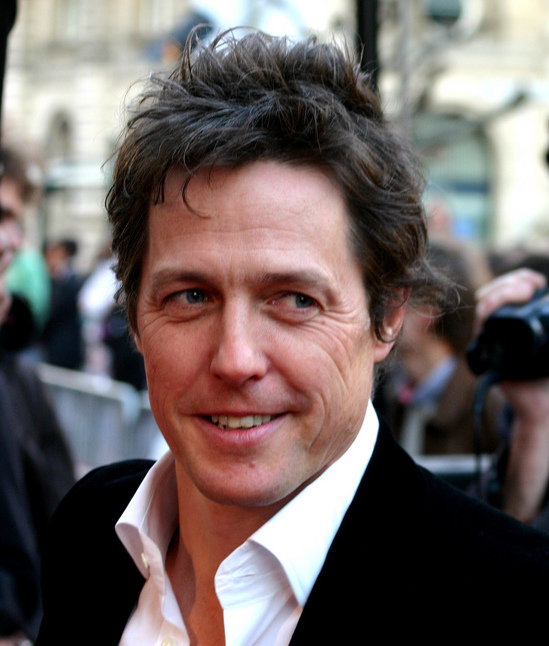
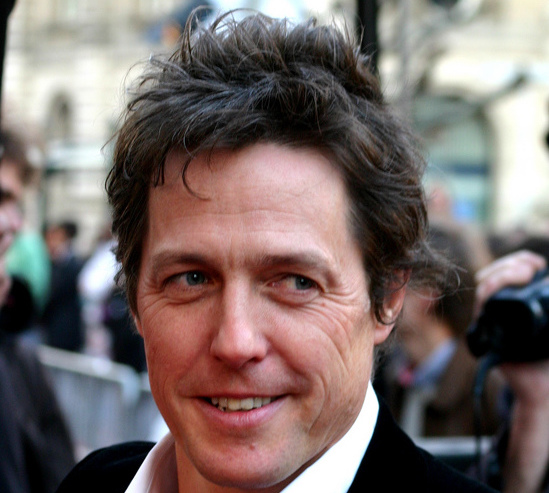
swap out enterprise response image, crop hugh, add max height to images in grid

diff --git a/index.html b/index.html
@@ -57,7 +57,7 @@
                   <i class="fa fa-search-plus fa-3x"></i>
                 </div>
               </div>
-              <img class="img-fluid" src="img/portfolio/enterprise-response.jpg" alt="">
+              <img class="img-fluid img-max-height" src="img/portfolio/enterprise-response.jpg" alt="">
               <p class="text-center">Enterprise Response/Help</p>
             </a>
           </div>
@@ -68,7 +68,7 @@
                   <i class="fa fa-search-plus fa-3x"></i>
                 </div>
               </div>
-              <img class="img-fluid" src="img/portfolio/software-user-guide.jpg" alt="">
+              <img class="img-fluid img-max-height" src="img/portfolio/software-user-guide.jpg" alt="">
               <p class="text-center">Software User Guide</p>
             </a>
           </div>
@@ -79,7 +79,7 @@
                   <i class="fa fa-search-plus fa-3x"></i>
                 </div>
               </div>
-              <img class="img-fluid" src="img/portfolio/grant-writing.jpg" alt="">
+              <img class="img-fluid img-max-height" src="img/portfolio/grant-writing.jpg" alt="">
               <p class="text-center">Grant Writing</p>
             </a>
           </div>
@@ -90,7 +90,7 @@
                   <i class="fa fa-search-plus fa-3x"></i>
                 </div>
               </div>
-              <img class="img-fluid" src="img/portfolio/enterprise-email.png" alt="">
+              <img class="img-fluid img-max-height" src="img/portfolio/enterprise-email.png" alt="">
               <p class="text-center">Enterprise Email & Web Production</p>
             </a>
           </div>
@@ -101,7 +101,7 @@
                   <i class="fa fa-search-plus fa-3x"></i>
                 </div>
               </div>
-              <img class="img-fluid" src="img/portfolio/technical-editing.jpg" alt="">
+              <img class="img-fluid img-max-height" src="img/portfolio/technical-editing.jpg" alt="">
               <p class="text-center">Technical Editing</p>
             </a>
           </div>
@@ -112,7 +112,7 @@
                   <i class="fa fa-search-plus fa-3x"></i>
                 </div>
               </div>
-              <img class="img-fluid" src="img/portfolio/press-release.jpg" alt="">
+              <img class="img-fluid img-max-height" src="img/portfolio/press-release.jpg" alt="">
               <p class="text-center">Press Release</p>
             </a>
           </div>
@@ -123,7 +123,7 @@
                   <i class="fa fa-search-plus fa-3x"></i>
                 </div>
               </div>
-              <img class="img-fluid" src="img/portfolio/product-review.jpg" alt="">
+              <img class="img-fluid img-max-height" src="img/portfolio/product-review.jpg" alt="">
               <p class="text-center">Product Review</p>
             </a>
           </div>
@@ -134,7 +134,7 @@
                   <i class="fa fa-search-plus fa-3x"></i>
                 </div>
               </div>
-              <img class="img-fluid" src="img/portfolio/white-paper.jpg" alt="">
+              <img class="img-fluid img-max-height" src="img/portfolio/white-paper.jpg" alt="">
               <p class="text-center">White Paper/Dossier</p>
             </a>
           </div>

diff --git a/css/freelancer.css b/css/freelancer.css
@@ -394,6 +394,10 @@ a:focus, a:hover, a:active {
   content: "";
 }
 
+.img-max-height {
+  max-height: 280px;
+}
+
 @media (min-width: 700px) {
   .masthead {
     height: 540px;
